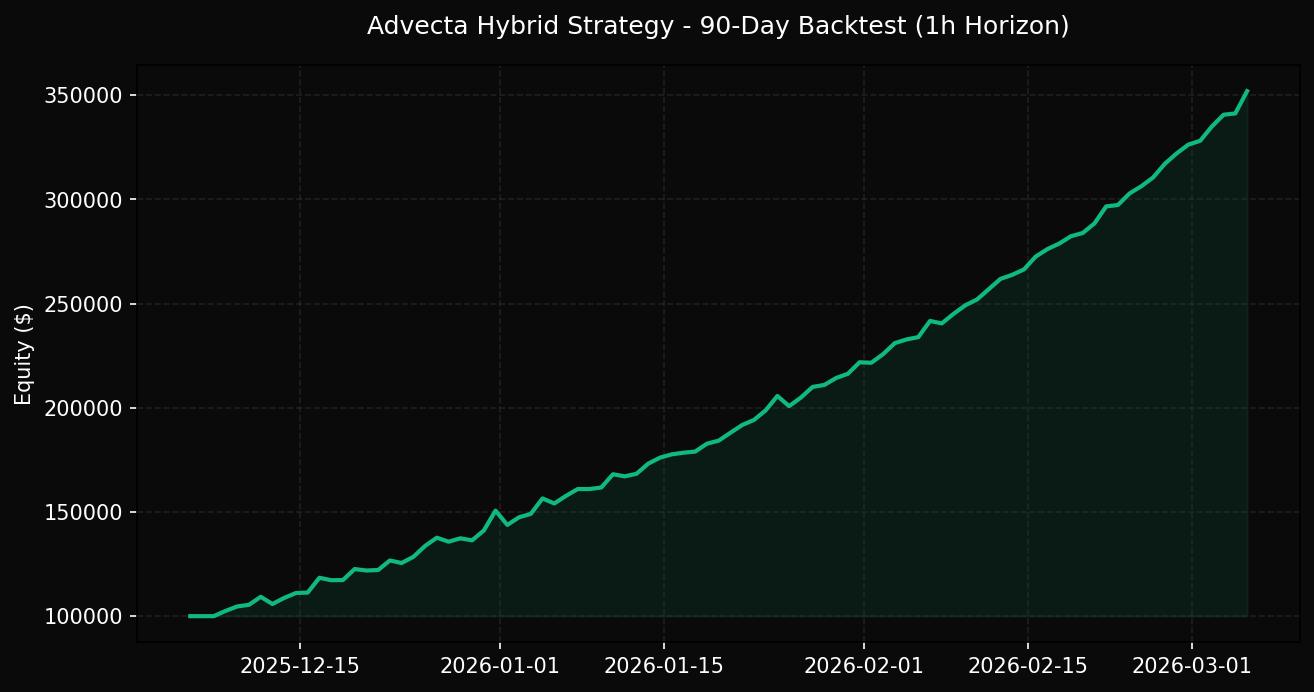
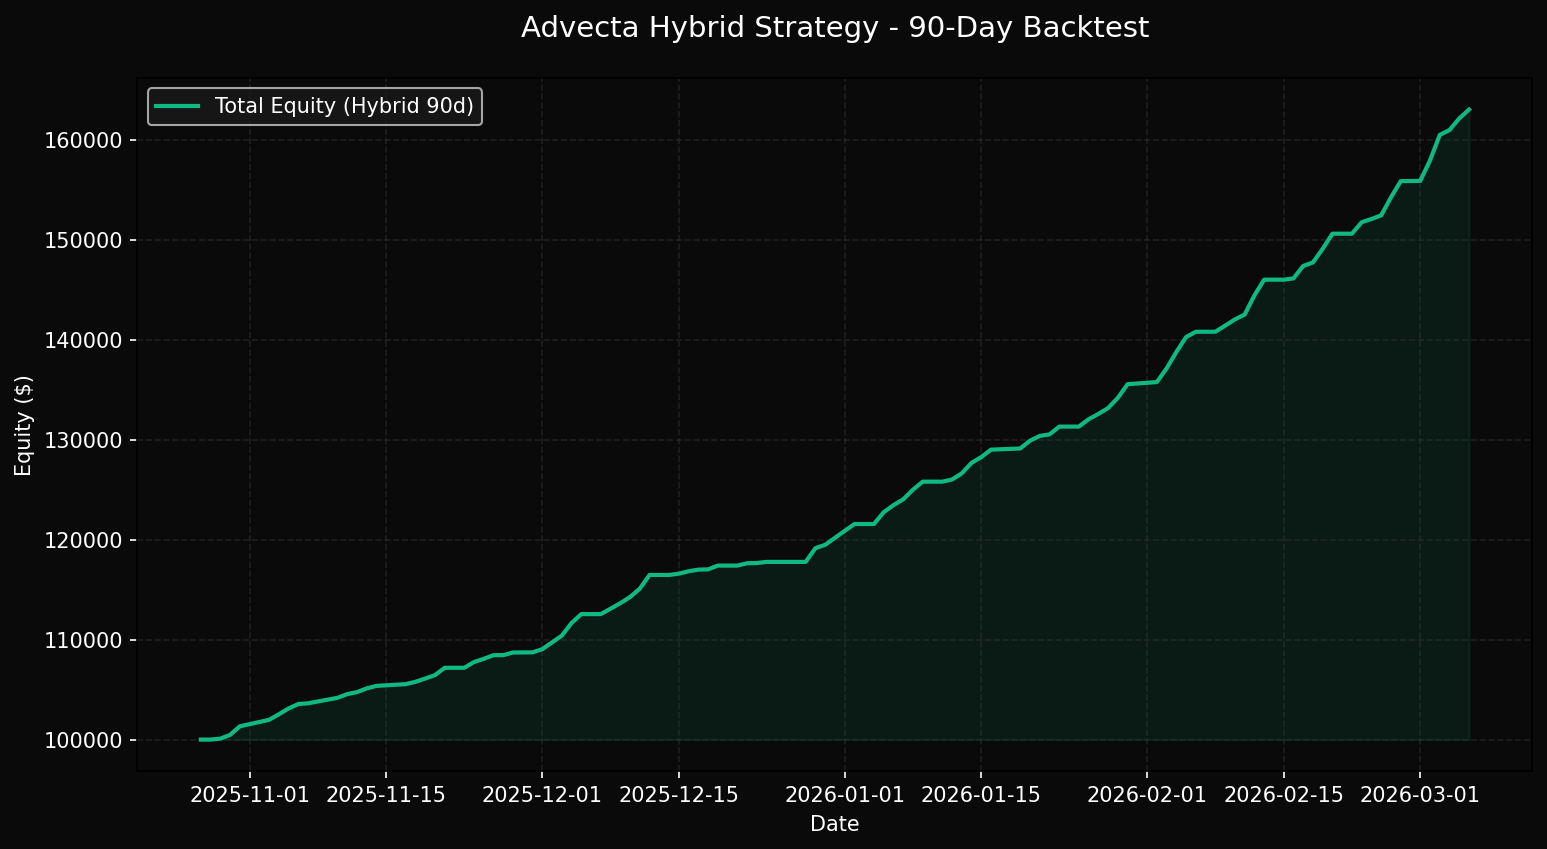
Update trading bot

diff --git a/src/components/advecta-website.tsx b/src/components/advecta-website.tsx
@@ -87,7 +87,7 @@ const strategyParams = [
   { label: "Prediction Horizon", value: "1 Hour (Hybrid)" },
   { label: "Global Sessions", value: "APAC · S-ASIA · EU · US" },
   { label: "Profit Split", value: "50/50 Performance" },
-  { label: "Backtest Period", value: "90 Days (Live Verify)" },
+  { label: "Backtest Period", value: "1 Year (Live Verify)" },
   { label: "Test Status", value: "Active / Verified" },
 ];
 
@@ -111,9 +111,9 @@ const pipelineSteps = [
 
 /* chart images (served from /public) */
 const chartImages = [
-  { src: "/strategy_comparison.png", title: "Strategy Comparison (Equity)", desc: "Comparative equity curves for Foundation (Low-Risk), Momentum (High-Risk), and Hybrid (Balanced) models over 90 trading days." },
+  { src: "/strategy_comparison.png", title: "Strategy Comparison (Equity)", desc: "Comparative equity curves for Foundation (Low-Risk), Momentum (High-Risk), and Hybrid (Balanced) models over 1 Year." },
   { src: "/kpi_comparison.png", title: "Strategy KPI Benchmarks", desc: "Detailed breakdown of ROI (%) and Sharpe Ratio across the three primary strategy profiles." },
-  { src: "/backtest_90d.png", title: "Hybrid 90-Day Performance", desc: "Equity curve for the 1h horizon strategy using the hybrid optimization model over the last 90 trading days." },
+  { src: "/backtest_1y.png", title: "Hybrid 1-Year Performance", desc: "Equity curve for the 1h horizon strategy using the hybrid optimization model over the last 1 year of trading data." },
   { src: "/cumulative_pnl.png", title: "Cumulative PnL", desc: "Combined and per-horizon cumulative profit over the full backtest period with period boundary markers." },
   { src: "/equity_overlay.png", title: "Capital Growth — All Periods", desc: "Equity curves for 1 Month, 90 Days, 6 Months, and 1 Year overlaid on a single chart." },
   { src: "/equity_panels.png", title: "Equity Curves by Period", desc: "Four-panel view with high-water marks and drawdown shading for each evaluation window." },
@@ -599,7 +599,7 @@ export default function AdvectaWebsite() {
 
           <motion.div initial="hidden" whileInView="visible" viewport={{ once: true }} variants={fadeIn} className="mt-16 text-center">
             <p className="text-xs text-zinc-600 italic">
-              *All figures derived from 90-day walk-forward backtests with realistic slippage and institutional fee calculation.
+              *All figures derived from 1-Year walk-forward backtests with realistic slippage and institutional fee calculation.
             </p>
           </motion.div>
         </div>
